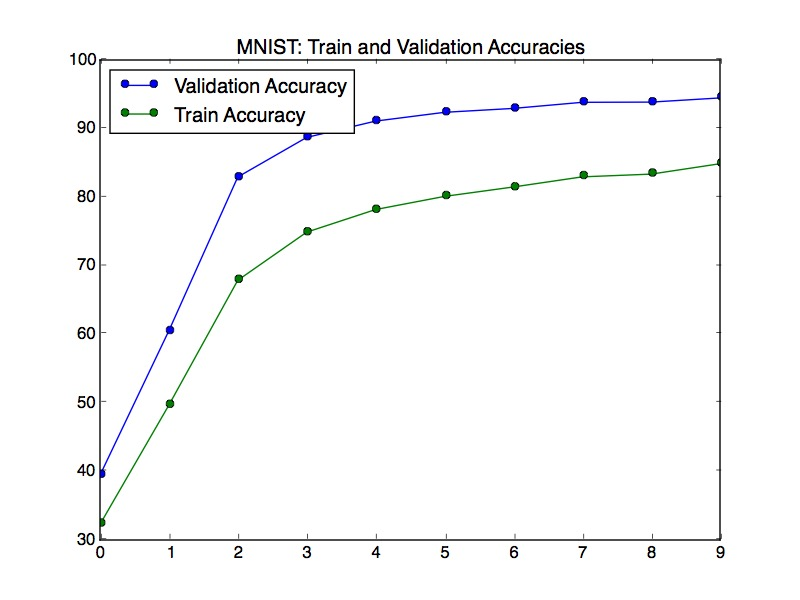
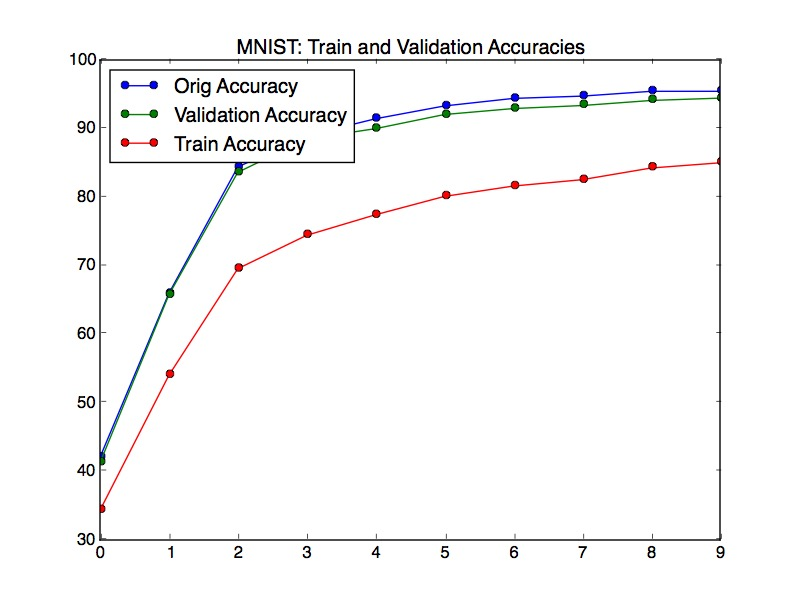
changed pseudo logic and augmented plot

diff --git a/pseudo_mnist_pytorch.py b/pseudo_mnist_pytorch.py
@@ -187,22 +187,29 @@ optimizer = optim.SGD(model.parameters(), lr=args.lr, momentum=args.momentum)
 def train(epoch, T1, T2, alpha_f):
 
     model.train()
+    
     #izip stops when the shorter one (train_loader) is exhausted. can tweak batch sizes (line 138) to include all data
-    for (batch_idx, (data, target)), (unlab_data, unlab_target) in itertools.izip(enumerate(train_loader),unlab_loader):
+    for (batch_idx, (data, target)), (unlab_data, unlab_old_target) in itertools.izip(enumerate(train_loader),unlab_loader):
         
         if args.cuda:
             data, target = data.cuda(), target.cuda()
-            unlab_data, unlab_target = unlab_data.cuda(), unlab_target.cuda()
+            #unlab_data, unlab_target = unlab_data.cuda(), unlab_target.cuda()
+            unlab_data = unlab_data.cuda()
 
         data, target = Variable(data), Variable(target)
-        unlab_data, unlab_target = Variable(unlab_data), Variable(unlab_target)
+        #unlab_data, unlab_target = Variable(unlab_data), Variable(unlab_target)
+        unlab_data = Variable(unlab_data)
 
         optimizer.zero_grad()
         
         output = model(data)
         output_unlab = model(unlab_data)
 
-        loss = (F.nll_loss(output, target) + pseudo_weight(epoch, T1=T1, T2=T2, alpha_f=alpha_f)*F.nll_loss(output_unlab,unlab_target)) #apply weighted pseudo
+        #get new labels for unlab data
+        unlab_new_target = output_unlab.data.max(1)[1]
+        unlab_new_target = Variable(unlab_new_target)
+
+        loss = (F.nll_loss(output, target) + pseudo_weight(epoch, T1=T1, T2=T2, alpha_f=alpha_f)*F.nll_loss(output_unlab,unlab_new_target)) #apply weighted pseudo
         
         loss.backward()
         optimizer.step()
@@ -279,8 +286,8 @@ for epoch in range(1, args.epochs + 1):
     '''
     we implement pseudo-labels to update every epoch, starting at epoch = T1 
     '''
-    if epoch >= T1: #update pseudolabels for unlabeled data
-        update_unlabeled()
+    #if epoch >= T1: #update pseudolabels for unlabeled data
+    #    update_unlabeled()
     
     train(epoch, T1, T2, alpha_f)
     c_train_acc = test(epoch, train_loader, 'Train')
@@ -288,7 +295,6 @@ for epoch in range(1, args.epochs + 1):
 
     dev_accs.append(c_dev_acc) #updates loss for plot 
     train_accs.append(c_train_acc) 
-
 
 plt.plot(np.arange(args.epochs), dev_accs, marker='o', label='Validation Accuracy')
 plt.plot(np.arange(args.epochs), train_accs, marker='o', label='Train Accuracy')

diff --git a/mnist_pytorch.py b/mnist_pytorch.py
@@ -131,7 +131,7 @@ for i in trainset_labeled:
 
     augmented_dataset.append((torch.from_numpy(np.array([clipped_zoom(i[0].numpy()[0],zoom_amount)])),i[1]))
 
-
+#orig_loader = torch.utils.data.DataLoader(trainset_labeled, batch_size=64, shuffle=True, **kwargs)
 train_loader = torch.utils.data.DataLoader(augmented_dataset, batch_size=64, shuffle=True, **kwargs)
 valid_loader = torch.utils.data.DataLoader(validset, batch_size=64, shuffle=True)
 test_loader = torch.utils.data.DataLoader(testset, batch_size=len(testset), shuffle=True)
@@ -195,11 +195,11 @@ def train(epoch):
                 100. * batch_idx / len(train_loader), loss.data[0]))
 
 
-def test(epoch, valid_loader, test_type):
+def test(epoch, loader, test_type):
     model.eval()
     test_loss = 0
     correct = 0
-    for data, target in valid_loader:
+    for data, target in loader:
         if args.cuda:
             data, target = data.cuda(), target.cuda()
         data, target = Variable(data, volatile=True), Variable(target)
@@ -208,24 +208,28 @@ def test(epoch, valid_loader, test_type):
         pred = output.data.max(1)[1] # get the index of the max log-probability
         correct += pred.eq(target.data).cpu().sum()
 
-    test_loss /= len(valid_loader) # loss function already averages over batch size
+    test_loss /= len(loader) # loss function already averages over batch size
     print('\n' + test_type + ' set: Average loss: {:.4f}, Accuracy: {}/{} ({:.0f}%)\n'.format(
-        test_loss, correct, len(valid_loader.dataset),
-        100. * correct / len(valid_loader.dataset)))
-    return 100. * correct / len(valid_loader.dataset)
+        test_loss, correct, len(loader.dataset),
+        100. * correct / len(loader.dataset)))
+    return 100. * correct / len(loader.dataset)
 
 
 train_accs=[]
 dev_accs=[]
+#orig_accs=[]
 for epoch in range(1, args.epochs + 1):
     
     train(epoch)
     c_train_acc = test(epoch, train_loader, 'Train')
     c_dev_acc = test(epoch, valid_loader, 'Dev')
+    c_orig_acc = test(epoch, orig_loader, 'Orig')
 
     dev_accs.append(c_dev_acc) #updates loss for plot 
     train_accs.append(c_train_acc) 
+    #orig_accs.append(c_orig_acc)
 
+#plt.plot(np.arange(args.epochs), orig_accs, marker='o', label='Orig Accuracy')
 plt.plot(np.arange(args.epochs), dev_accs, marker='o', label='Validation Accuracy')
 plt.plot(np.arange(args.epochs), train_accs, marker='o', label='Train Accuracy')
 plt.title('MNIST: Train and Validation Accuracies')
